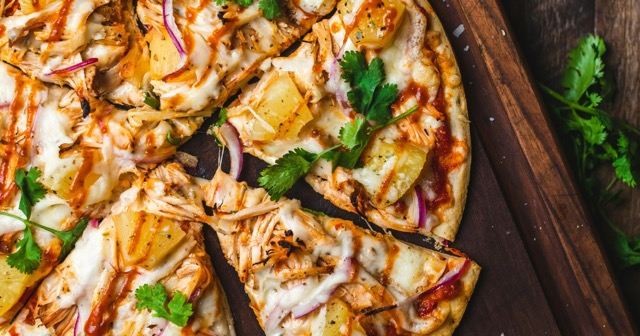
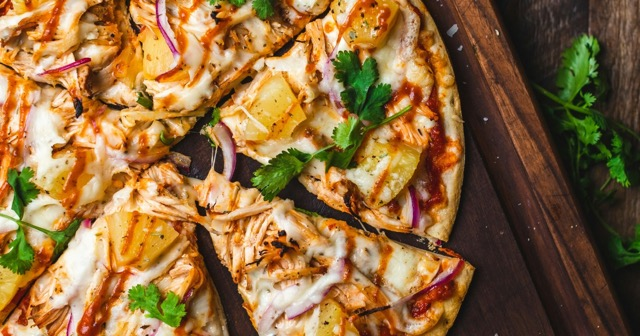
removed console.logs

diff --git a/src/Home.js b/src/Home.js
@@ -36,16 +36,12 @@ const dailyLetter = useMemo(() => {
       setError("");
 
       const response = await fetch(`https://www.themealdb.com/api/json/v1/1/search.php?f=${dailyLetter}`);
-  console.log("Status:", response.status);
 
       if (!response.ok) {
         throw new Error("failed to fetch recipes");
       }
       const result = await response.json();
-    
-console.log("Full API response:", result);
-console.log("Daily letter:", dailyLetter);
-console.log("Meals:", result.meals);
+
       setRecipes(result.meals || []);
     } catch (error) {
       setError("Something went wrong while loading recipes");
